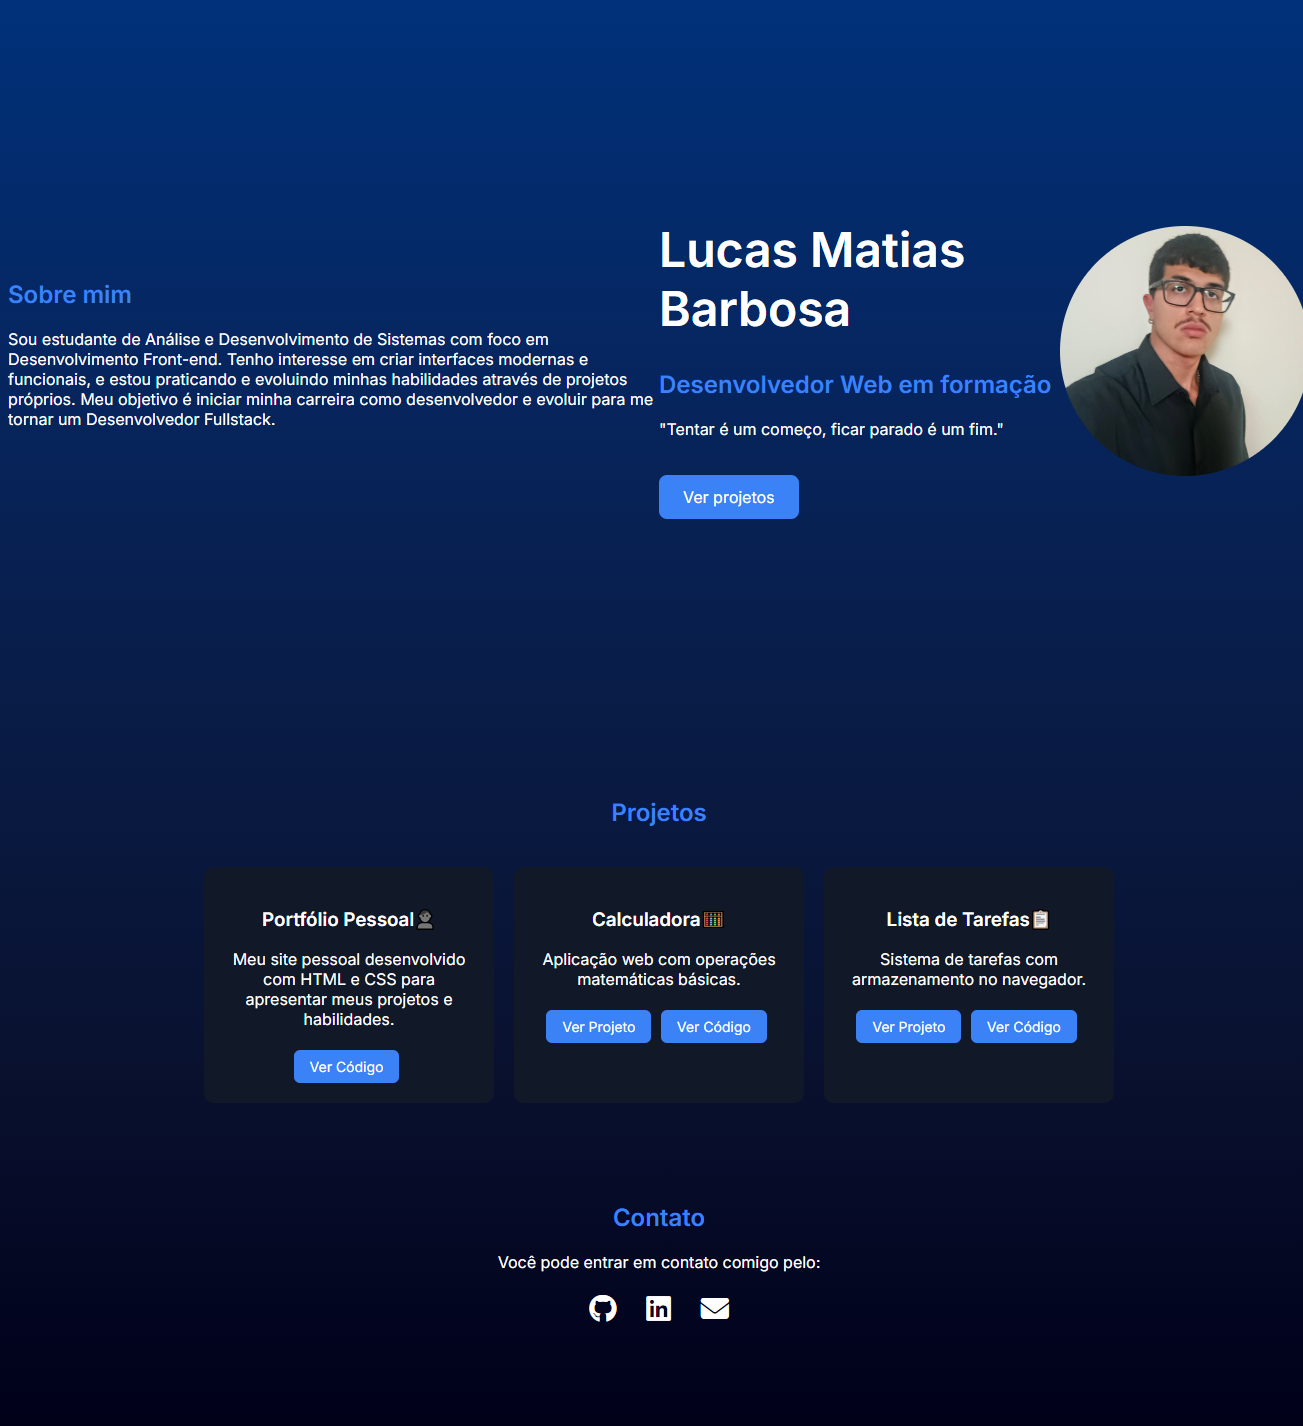
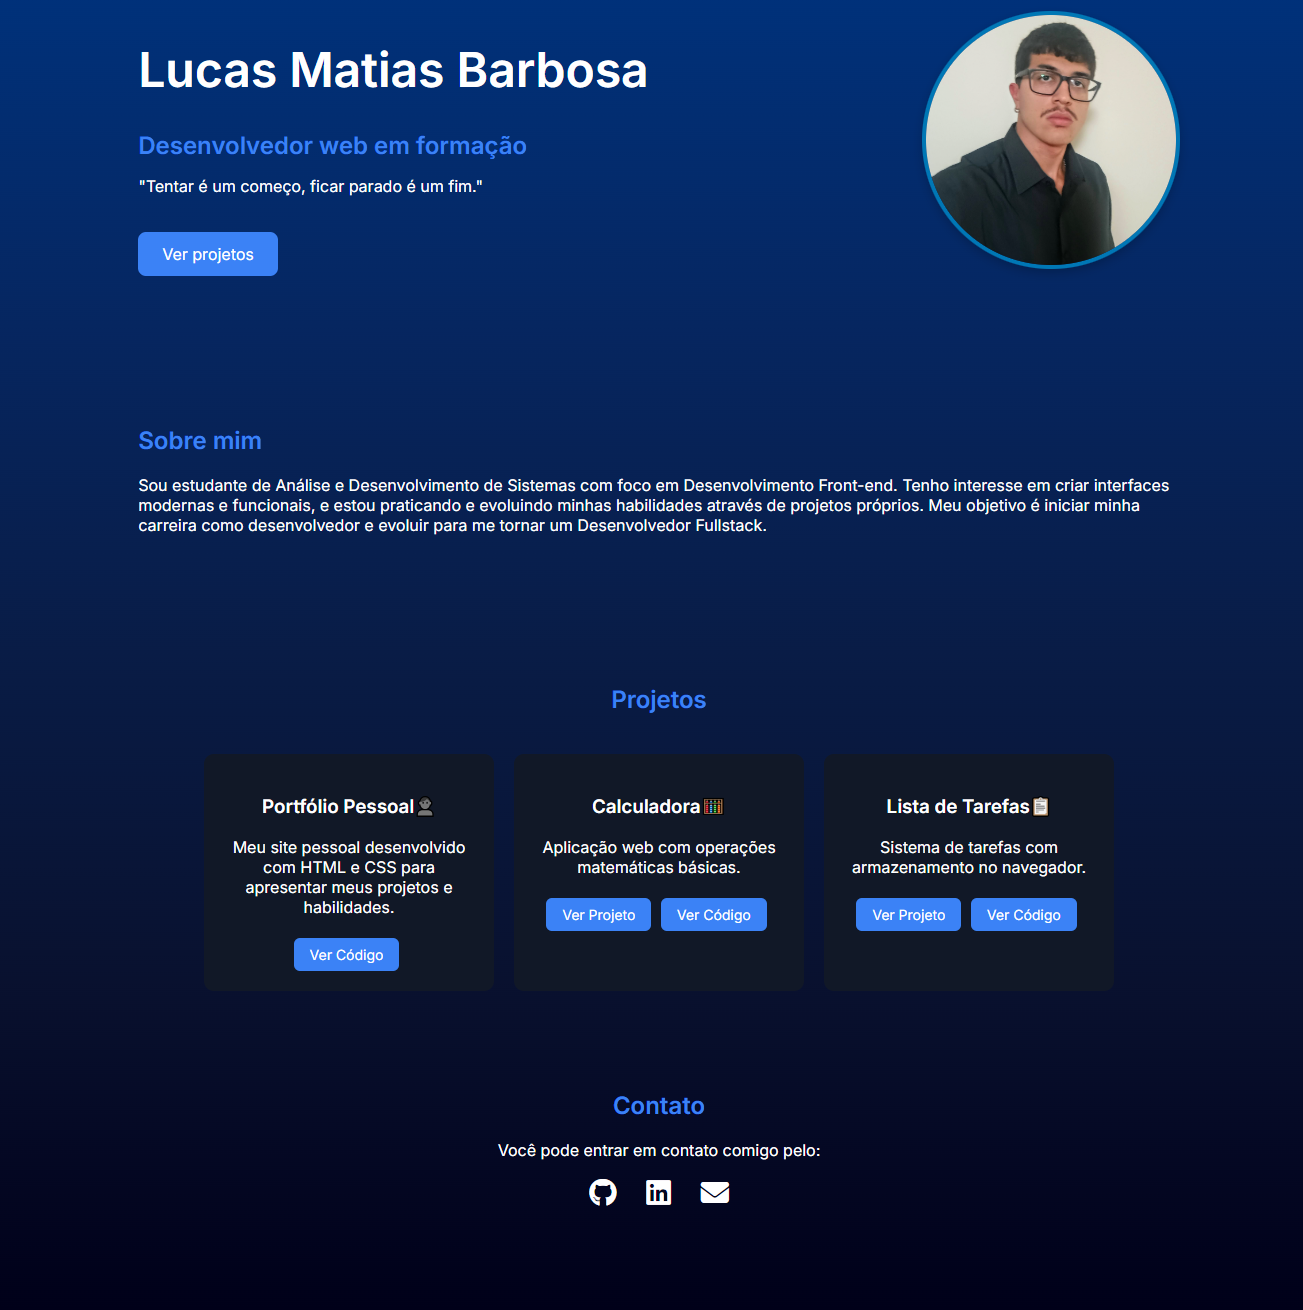
atualizei a preview para o novo formato

diff --git a/index.html b/index.html
@@ -2,133 +2,83 @@
 <html lang="pt-BR">
 
 <head>
-    
     <meta charset="UTF-8">
     <title>Lucas Matias Barbosa</title>
-
     <link rel="stylesheet" href="css/style.css">
-
     <link href="https://fonts.googleapis.com/css2?family=Inter:wght@400;600&display=swap" rel="stylesheet">
     <link rel="stylesheet" href="https://cdnjs.cloudflare.com/ajax/libs/font-awesome/6.5.0/css/all.min.css">
-
 </head>
 
 <body>
 
-    <section class="hero">
-    <section id="sobre">
-
-    <h2>Sobre mim</h2>
-
-    <p>
-        Sou estudante de Análise e Desenvolvimento de Sistemas com foco em Desenvolvimento Front-end.
-        Tenho interesse em criar interfaces modernas e funcionais, e estou praticando
-        e evoluindo minhas habilidades através de projetos próprios.
-
-        Meu objetivo é iniciar minha carreira como desenvolvedor e evoluir para me tornar um Desenvolvedor Fullstack.
-    </p>
-
-</section>
-
+    <!-- Topo da página -->
+    <section id="hero">
         <div class="container">
-
             <div class="texto">
-
                 <h1>Lucas Matias Barbosa</h1>
-
-                <h2>Desenvolvedor Web em formação</h2>
-
+                <p class="profissao">Desenvolvedor web em formação</p>
                 <p>"Tentar é um começo, ficar parado é um fim."</p>
-
                 <a href="#projetos" class="botao">Ver projetos</a>
-
             </div>
-
             <div class="foto">
-
                 <img src="img/lucas.jpg" alt="Foto de Lucas">
+            </div>
+        </div>
+    </section>
 
+    <!-- Seção Sobre -->
+    <section id="sobre">
+        <h2>Sobre mim</h2>
+        <p>
+            Sou estudante de Análise e Desenvolvimento de Sistemas com foco em Desenvolvimento Front-end.
+            Tenho interesse em criar interfaces modernas e funcionais, e estou praticando
+            e evoluindo minhas habilidades através de projetos próprios.
+            Meu objetivo é iniciar minha carreira como desenvolvedor e evoluir para me tornar um Desenvolvedor Fullstack.
+        </p>
+    </section>
+
+    <!-- Seção Projetos -->
+    <section id="projetos">
+        <h2>Projetos</h2>
+        <div class="container-projetos">
+            <div class="card">
+                <h3>Portfólio Pessoal👤</h3>
+                <p>Meu site pessoal desenvolvido com HTML e CSS para apresentar meus projetos e habilidades.</p>
+                <a href="https://github.com/lucasmb0202-droid/portfolio" target="_blank" class="botao-card">Ver Código</a>
             </div>
 
+            <div class="card">
+                <h3>Calculadora🧮</h3>
+                <p>Aplicação web com operações matemáticas básicas.</p>
+                <a href="https://lucasmb0202-droid.github.io/calculadora" target="_blank" class="botao-card">Ver Projeto</a>
+                <a href="https://github.com/lucasmb0202-droid/calculadora" target="_blank" class="botao-card">Ver Código</a>
+            </div>
+
+            <div class="card">
+                <h3>Lista de Tarefas📋</h3>
+                <p>Sistema de tarefas com armazenamento no navegador.</p>
+                <a href="https://lucasmb0202-droid.github.io/lista-de-tarefas" target="_blank" class="botao-card">Ver Projeto</a>
+                <a href="https://github.com/lucasmb0202-droid/lista-de-tarefas" target="_blank" class="botao-card">Ver Código</a>
+            </div>
         </div>
-
     </section>
-    <section id="projetos">
 
-    <h2>Projetos</h2>
-
-    <div class="container-projetos">
-
-    <div class="card">
-
-        <h3>Portfólio Pessoal👤</h3>
-
-        <p>Meu site pessoal desenvolvido com HTML e CSS para apresentar meus projetos e habilidades.</p>
-
-        <a href="https://github.com/lucasmb0202-droid/portfolio" target="_blank" class="botao-card">
-            Ver Código
-        </a>
-
-    </div>
-
-    <div class="card">
-
-        <h3>Calculadora🧮</h3>
-
-        <p>Aplicação web com operações matemáticas básicas.</p>
-        
-        <a href="https://lucasmb0202-droid.github.io/calculadora" target="_blank" class="botao-card">
-            Ver Projeto
-        </a>
-
-        <a href="https://github.com/lucasmb0202-droid/calculadora" target="_blank" class="botao-card">
-            Ver Código
-        </a>
-
-    </div>
-
-    <div class="card">
-
-        <h3>Lista de Tarefas📋</h3>
-
-        <p>Sistema de tarefas com armazenamento no navegador.</p>
-
-        <a href="https://lucasmb0202-droid.github.io/lista-de-tarefas" target="_blank" class="botao-card">
-            Ver Projeto
-        </a>
-
-        <a href="https://github.com/lucasmb0202-droid/lista-de-tarefas" target="_blank" class="botao-card">
-            Ver Código
-        </a>
-
-    </div>
-
-</div>
-
-</section>
-
-<section id="contato">
-
-    <h2>Contato</h2>
-
-    <p>Você pode entrar em contato comigo pelo:</p>
-
-    <div class="contatos">
-
-    <a href="https://github.com/lucasmb0202-droid" target="_blank">
-        <i class="fab fa-github"></i>
-    </a>
-
-    <a href="https://linkedin.com/in/lucasmatiasbarbosa" target="_blank">
-        <i class="fab fa-linkedin"></i>
-    </a>
-
-    <a href="https://mail.google.com/mail/?view=cm&fs=1&to=lucasmb0202@gmail.com" target="_blank">
-    <i class="fa-solid fa-envelope"></i>
-    </a>
-
-</div>
-
-</section>
+    <!-- Seção Contato -->
+    <section id="contato">
+        <h2>Contato</h2>
+        <p>Você pode entrar em contato comigo pelo:</p>
+        <div class="contatos">
+            <a href="https://github.com/lucasmb0202-droid" target="_blank">
+                <i class="fab fa-github"></i>
+            </a>
+            <a href="https://linkedin.com/in/lucasmatiasbarbosa" target="_blank">
+                <i class="fab fa-linkedin"></i>
+            </a>
+            <a href="https://mail.google.com/mail/?view=cm&fs=1&to=lucasmb0202@gmail.com" target="_blank">
+                <i class="fa-solid fa-envelope"></i>
+            </a>
+        </div>
+    </section>
 
 </body>
+</html>

diff --git a/css/style.css b/css/style.css
@@ -1,8 +1,12 @@
+/* Imagem */
 img {
     width: 250px;
     border-radius: 50%;
+    border: 4px solid #0077b5;
+    box-shadow: 0 4px 10px rgba(0,0,0,0.2);
 }
 
+/* Layout Principal */
 .container {
     display: flex;
     align-items: center;
@@ -17,12 +21,18 @@ img {
     align-items: center;
 }
 
+/* Base */
+html {
+    scroll-behavior: smooth;
+}
+
 body {
     background-image: linear-gradient(to bottom, #00317a, #062660, #091c46, #09112f, #000019);
     color: white;
     font-family: 'Inter', sans-serif;
 }
 
+/* Letra */
 h1 {
     font-size: 48px;
 }
@@ -31,6 +41,14 @@ h2 {
     color: #3b82f6;
 }
 
+.profissao {
+    color: #3b82f6;
+    font-weight: 800;
+    font-size: 24px;
+    margin-bottom: 10px;
+}
+
+/* Botões */
 .botao {
     display: inline-block;
     margin-top: 20px;
@@ -39,16 +57,30 @@ h2 {
     color: white;
     text-decoration: none;
     border-radius: 8px;
+    transition: 0.3s;
 }
 
 .botao:hover {
     background-color: #2563eb;
+    transform: translateY(-3px);
 }
 
-html {
-    scroll-behavior: smooth;
+.botao-card {
+    display: inline-block;
+    margin: 5px 5px 0 0;
+    padding: 8px 16px;
+    background-color: #3b82f6;
+    color: white;
+    text-decoration: none;
+    border-radius: 6px;
+    font-size: 14px;
 }
 
+.botao-card:hover {
+    background-color: #2563eb;
+}
+
+/* Projetos */
 .container-projetos {
     display: flex;
     gap: 20px;
@@ -67,21 +99,7 @@ html {
     border: 1px solid #3b82f6;
 }
 
-.botao-card {
-    display: inline-block;
-    margin: 5px 5px 0 0;
-    padding: 8px 16px;
-    background-color: #3b82f6;
-    color: white;
-    text-decoration: none;
-    border-radius: 6px;
-    font-size: 14px;
-}
-
-.botao-card:hover {
-    background-color: #2563eb;
-}
-
+/* Responsividade */
 @media (max-width: 768px) {
 
     .container {
@@ -109,14 +127,22 @@ html {
 
 }
 
+/* Seção Sobre */
 #sobre {
     width: 80%;
-    margin: 100px auto;
+    margin: 150px auto;
 }
 
 #sobre h2 {
     color: #3b82f6;
     margin-bottom: 20px;
+}
+
+/* Seção Contato */
+#contato {
+    width: 80%;
+    margin: 100px auto;
+    text-align: center;
 }
 
 #contato h2 {
@@ -133,15 +159,10 @@ html {
     color: #3b82f6;
 }
 
-#contato {
-    width: 80%;
-    margin: 100px auto;
-    text-align: center;
-}
-
+/* Seção Projetos */
 #projetos {
-    width: 80%;
-    margin: 100px auto;
+    width: 100%;
+    margin: 20px auto;
     text-align: center;
 }
 
@@ -150,11 +171,12 @@ html {
     text-align: center;
 }
 
+/* Links de contato */
 .contatos {
     display: flex;
     justify-content: center;
     gap: 30px;
-    margin-top: 20px;
+    margin-top: 10px;
 }
 
 .contatos a {
